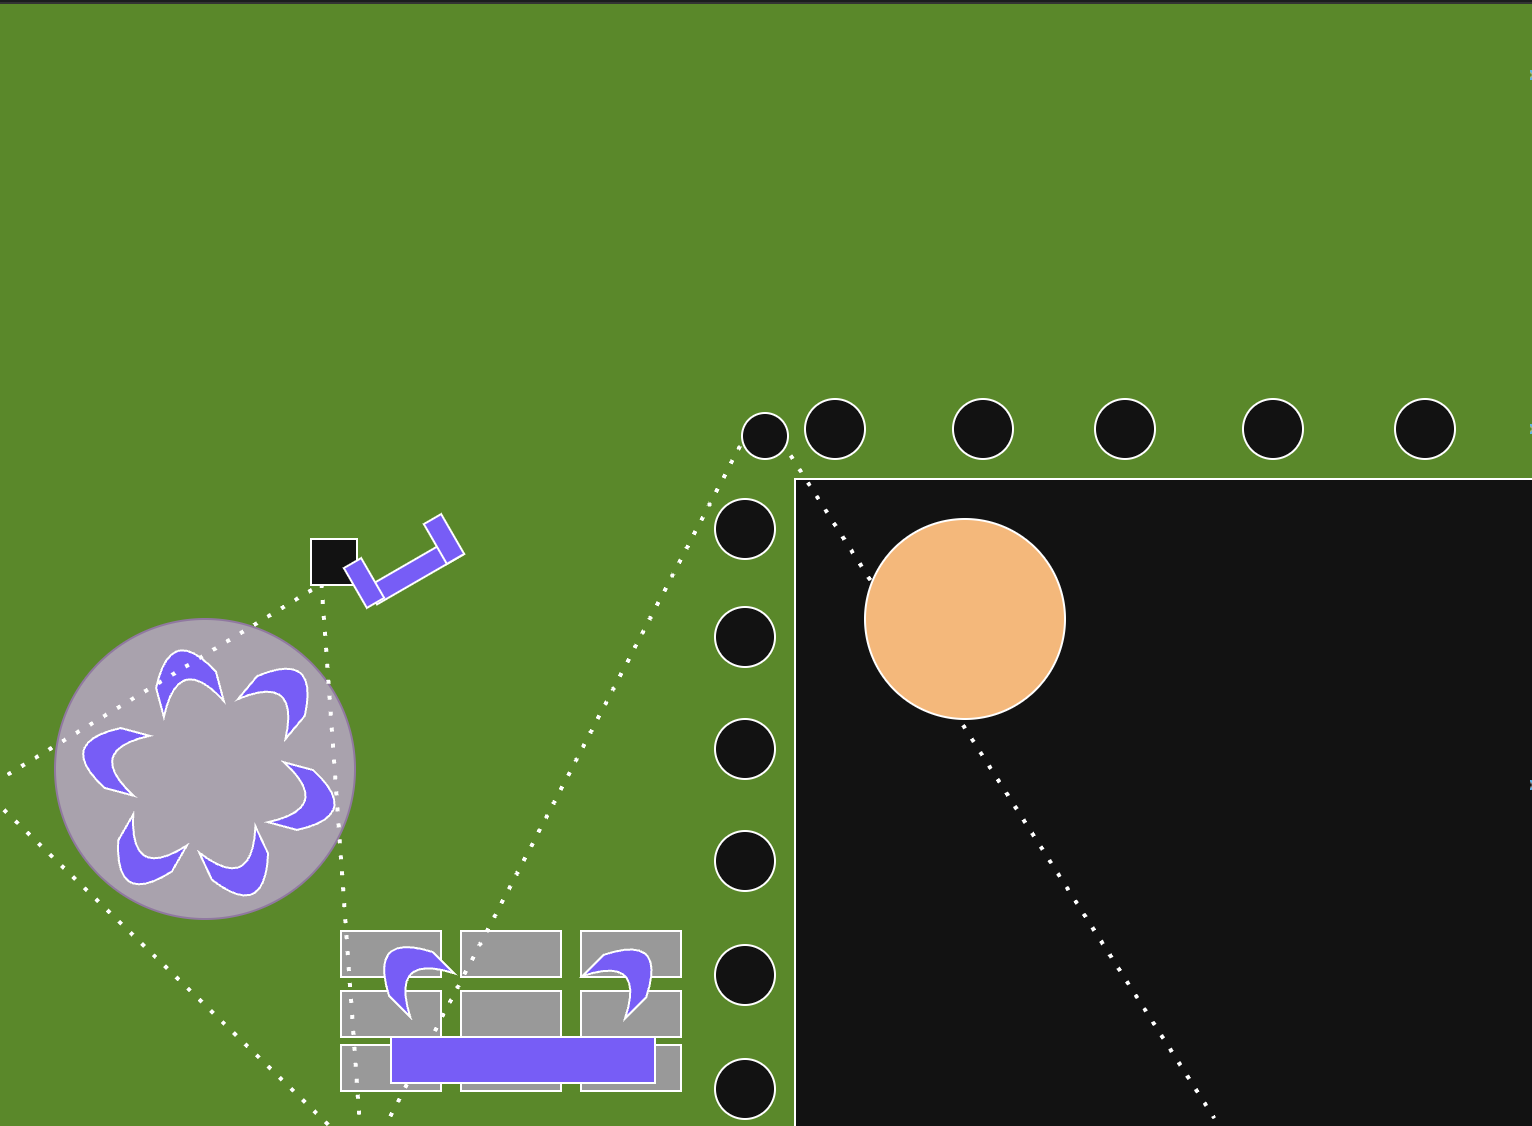
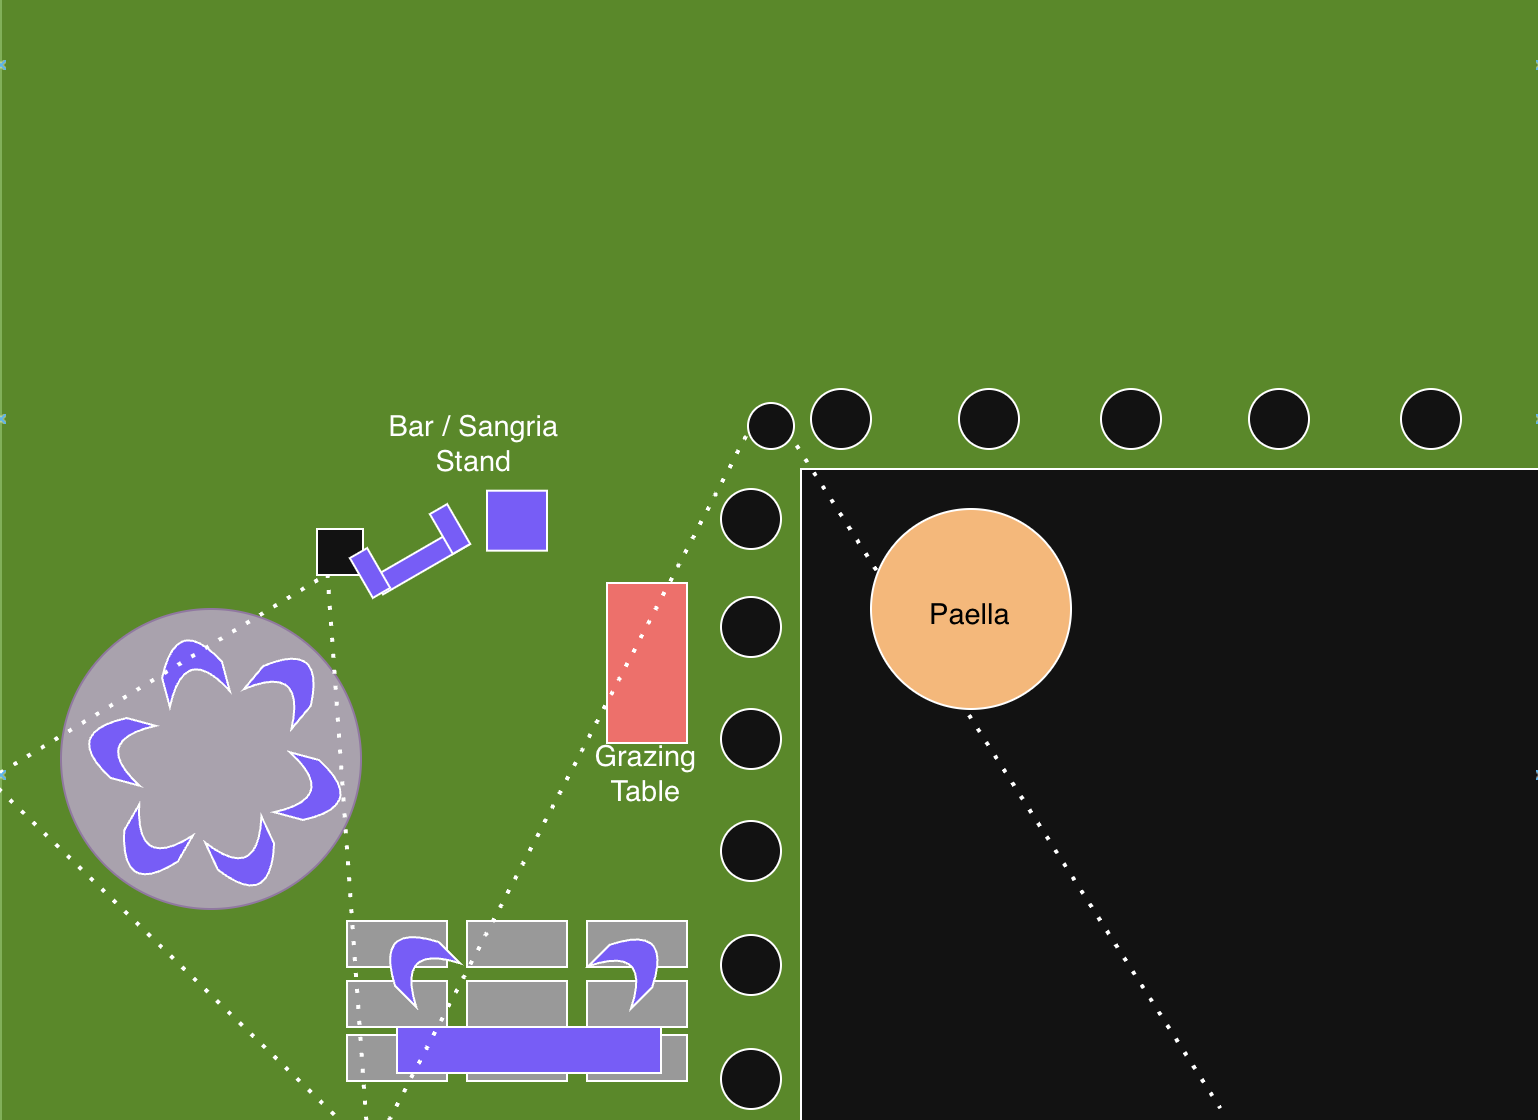
Swap in the updated, self-labeled backyard map
New version has Bar/Sangria Stand, Grazing Table, and Paella labeled
directly on the image, so the separate caption is redundant - removed
it along with the now-unused map-note CSS (p/ul/code/caption rules).

diff --git a/styles.css b/styles.css
@@ -769,48 +769,14 @@ html.show-prices .grazing-total { display: block; }
   box-shadow: var(--shadow);
 }
 
-.map-note p {
-  margin: 0 0 1rem;
-  font-size: 0.92rem;
-  color: var(--ink-soft);
-  line-height: 1.6;
-}
-
 .yard-map {
   border-radius: 12px;
   overflow: hidden;
-  margin-bottom: 1.2rem;
   border: 1px solid var(--border);
 }
 
 .yard-map img,
 .yard-map svg { display: block; width: 100%; height: auto; }
-
-.map-note__caption {
-  margin: 0 0 0.8rem;
-  font-size: 0.88rem;
-  color: var(--ink-soft);
-  line-height: 1.6;
-}
-
-.map-note__caption:last-child { margin: 1rem 0 0; font-style: italic; }
-
-.map-note code {
-  background: color-mix(in srgb, var(--olive) 16%, transparent);
-  border-radius: 5px;
-  padding: 0.1rem 0.4rem;
-  font-size: 0.85em;
-}
-
-.map-note ul {
-  margin: 0;
-  padding-left: 1.1rem;
-  font-size: 0.92rem;
-  color: var(--ink);
-  line-height: 1.7;
-}
-
-.map-note ul strong { color: var(--terracotta-dark); }
 
 @media (max-width: 640px) {
   .detail-row { grid-template-columns: 1fr; gap: 0.15rem; }

diff --git a/index.html b/index.html
@@ -473,9 +473,8 @@
 
     <div class="map-note">
       <div class="yard-map">
-        <img src="assets/backyard-map.png" alt="Backyard layout sketch, with the paella cooking stand marked as the orange circle on the patio" />
+        <img src="assets/backyard-map.png" alt="Backyard layout: tree, Bar/Sangria Stand, Grazing Table, and the paella cooking stand on the patio, connected by paths" />
       </div>
-      <p class="map-note__caption">Orange circle is the paella cooking stand.</p>
     </div>
   </section>
 
